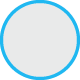
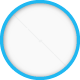
Misc Nav and HeaderBar changes

diff --git a/css/styles.css b/css/styles.css
@@ -86,7 +86,7 @@ text-align: justify ;
 
 #headerTopAreaFullContainer{
 /*	background: url("../images/backgrounds/headerTopAreaSliderBackground.jpg") no-repeat top center;*/
-	background: #FFFFFF;
+	background: #FFFFFF url("../images/backgrounds/struckaxiom2.png");
 	height: 52px;
 }
 
@@ -94,7 +94,7 @@ text-align: justify ;
 	width: 100%;
 	height: 104px;
 	background-color:#161616;
-	background: #FFFFFF;
+	background: #FFFFFF url("../images/backgrounds/wingBar.png") no-repeat;
 	z-index:1;
 	position:relative;
 	
@@ -108,7 +108,7 @@ box-shadow:0px 0px 10px #000000;
     -webkit-box-shadow: 0px -5px 9px rgba(0, 0, 0, 0.70);*/
 }
 #headerBar h1{
-	margin-top:30px;
+	margin-top:35px;
 	color:#FFF;
 	background-image: url("../images/logos/AtomicFlowWordmark.png");
 	background-repeat:no-repeat;
@@ -167,7 +167,7 @@ div#mainSlider{
 	height: 350px;
 	width:100%;
 /*	background: url("../images/backgrounds/sliderBG_model.jpg") no-repeat center center;*/
-background:url("../images/backgrounds/creativegridbg.jpg");
+background:url("../images/backgrounds/struckaxiom2.png");
 	-moz-box-shadow:0px 0px 12px #000000;
 	-webkit-box-shadow:0px 0px 12px #000000;
 	box-shadow:0px 0px 12px #000000;
